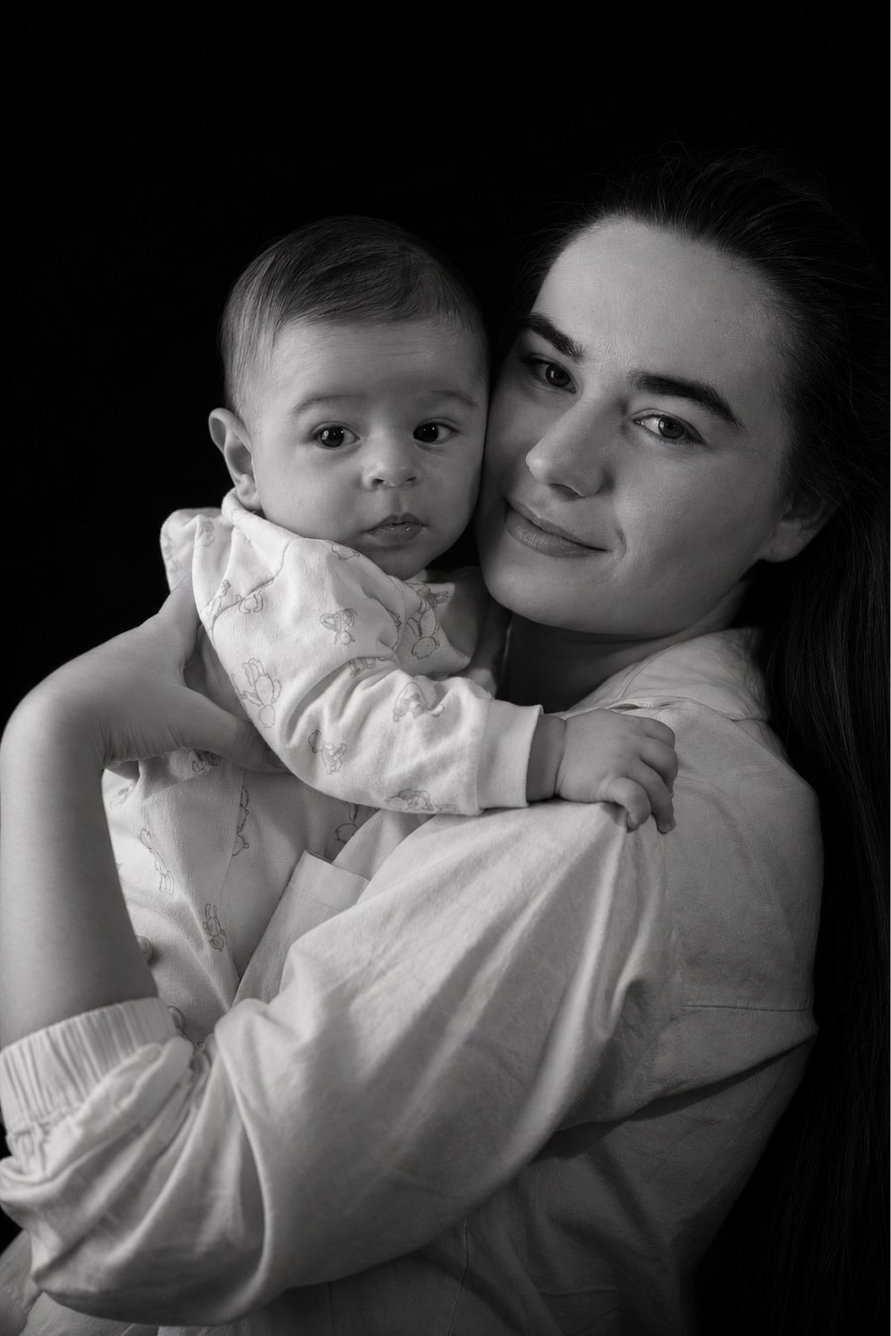
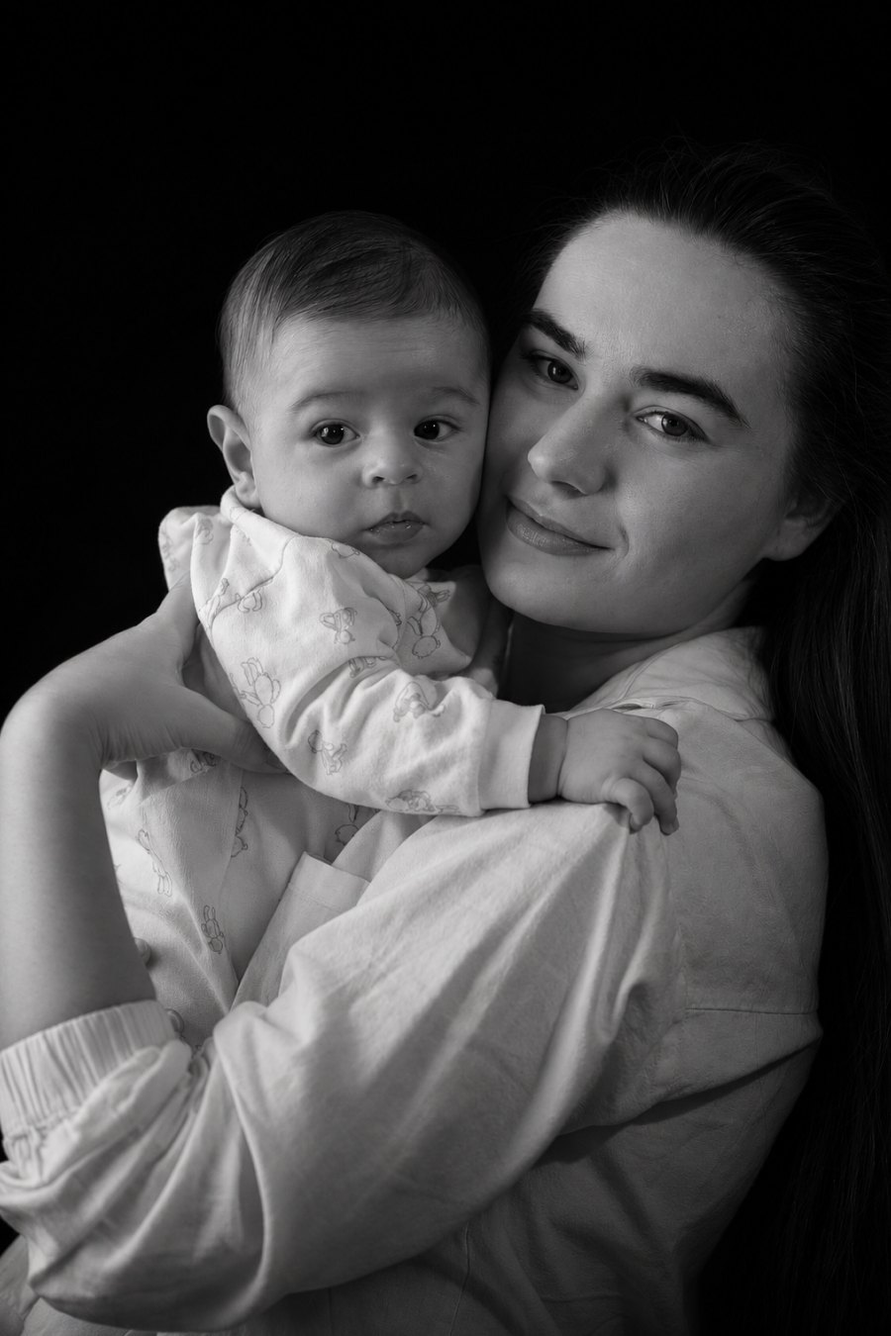
Семья: фото 10 заново из исправленного файла

diff --git a/site/kz/index.html b/site/kz/index.html
@@ -41,7 +41,7 @@ var t=document.querySelector('meta[name="theme-color"]');if(t)t.content=p[1]}();
 <link rel="preconnect" href="https://fonts.googleapis.com">
 <link rel="preconnect" href="https://fonts.gstatic.com" crossorigin>
 <link href="https://fonts.googleapis.com/css2?family=Inter:wght@400;500;600;700;800&family=Unbounded:wght@900&display=swap" rel="stylesheet">
-<link rel="stylesheet" href="../assets/style.css?v=1794721851">
+<link rel="stylesheet" href="../assets/style.css?v=1794721956">
 </head>
 <body id="top" class="is-home">
 <header class="top">
@@ -60,9 +60,9 @@ var t=document.querySelector('meta[name="theme-color"]');if(t)t.content=p[1]}();
 
 <div class="home" id="home">
 <section class="stage">
-  <div class="splash"><picture class="tile"><source media="(max-width: 760px)" srcset="../photos/home/02.jpg?v=1794721851"><img src="../photos/home/01.jpg?v=1794721851" alt="Veronika Kim"></picture></div>
-  <h1 class="wordmark"><picture><source media="(max-width: 760px)" data-srcset="../assets/wordmark-v1.png?v=1794721851" width="678" height="1692"><img data-src="../assets/wordmark-1.png?v=1794721851" alt="Veronika Kim" width="1692" height="678"></picture><script>!function(p){var n=document.documentElement.getAttribute("data-logo")||1,s=p.firstChild,i=p.lastChild;s.srcset=s.getAttribute("data-srcset").replace("-v1.","-v"+n+".");i.src=i.getAttribute("data-src").replace("-1.","-"+n+".")}(document.currentScript.previousElementSibling)</script><noscript><img src="../assets/wordmark-1.png?v=1794721851" alt="Veronika Kim" width="1692" height="678"></noscript></h1>
-  <div class="drift"><div class="drift-item"><a href="../kz/art/editorial/"><img src="../photos/drift/editorial.jpg?v=1794721851" width="315" height="560" alt="Авторлық портрет" decoding="async"></a></div><div class="drift-item"><a href="../kz/book/mountains/"><img src="../photos/drift/mountains.jpg?v=1794721851" width="560" height="373" alt="Таудағы дрон" decoding="async"></a></div><div class="drift-item"><a href="../kz/book/kids/"><img src="../photos/drift/kids.jpg?v=1794721851" width="400" height="560" alt="Балалар" decoding="async"></a></div><div class="drift-item"><a href="../kz/book/underwater/"><img src="../photos/drift/underwater.jpg?v=1794721851" width="448" height="560" alt="Су астында" decoding="async"></a></div><div class="drift-item"><a href="../kz/book/portrait/"><img src="../photos/drift/portrait.jpg?v=1794721851" width="420" height="560" alt="Портрет" decoding="async"></a></div><div class="drift-item"><a href="../kz/architecture/"><img src="../photos/drift/architecture.jpg?v=1794721851" width="560" height="405" alt="Сәулет және дрон" decoding="async"></a></div><div class="drift-item"><a href="../kz/book/love-story/"><img src="../photos/drift/love-story.jpg?v=1794721851" width="560" height="373" alt="Love story" decoding="async"></a></div><div class="drift-item"><a href="../kz/art/travel/"><img src="../photos/drift/travel.jpg?v=1794721851" width="560" height="373" alt="Саяхат" decoding="async"></a></div></div>
+  <div class="splash"><picture class="tile"><source media="(max-width: 760px)" srcset="../photos/home/02.jpg?v=1794721956"><img src="../photos/home/01.jpg?v=1794721956" alt="Veronika Kim"></picture></div>
+  <h1 class="wordmark"><picture><source media="(max-width: 760px)" data-srcset="../assets/wordmark-v1.png?v=1794721956" width="678" height="1692"><img data-src="../assets/wordmark-1.png?v=1794721956" alt="Veronika Kim" width="1692" height="678"></picture><script>!function(p){var n=document.documentElement.getAttribute("data-logo")||1,s=p.firstChild,i=p.lastChild;s.srcset=s.getAttribute("data-srcset").replace("-v1.","-v"+n+".");i.src=i.getAttribute("data-src").replace("-1.","-"+n+".")}(document.currentScript.previousElementSibling)</script><noscript><img src="../assets/wordmark-1.png?v=1794721956" alt="Veronika Kim" width="1692" height="678"></noscript></h1>
+  <div class="drift"><div class="drift-item"><a href="../kz/art/editorial/"><img src="../photos/drift/editorial.jpg?v=1794721956" width="315" height="560" alt="Авторлық портрет" decoding="async"></a></div><div class="drift-item"><a href="../kz/book/mountains/"><img src="../photos/drift/mountains.jpg?v=1794721956" width="560" height="373" alt="Таудағы дрон" decoding="async"></a></div><div class="drift-item"><a href="../kz/book/kids/"><img src="../photos/drift/kids.jpg?v=1794721956" width="400" height="560" alt="Балалар" decoding="async"></a></div><div class="drift-item"><a href="../kz/book/underwater/"><img src="../photos/drift/underwater.jpg?v=1794721956" width="448" height="560" alt="Су астында" decoding="async"></a></div><div class="drift-item"><a href="../kz/book/portrait/"><img src="../photos/drift/portrait.jpg?v=1794721956" width="420" height="560" alt="Портрет" decoding="async"></a></div><div class="drift-item"><a href="../kz/architecture/"><img src="../photos/drift/architecture.jpg?v=1794721956" width="560" height="405" alt="Сәулет және дрон" decoding="async"></a></div><div class="drift-item"><a href="../kz/book/love-story/"><img src="../photos/drift/love-story.jpg?v=1794721956" width="560" height="373" alt="Love story" decoding="async"></a></div><div class="drift-item"><a href="../kz/art/travel/"><img src="../photos/drift/travel.jpg?v=1794721956" width="560" height="373" alt="Саяхат" decoding="async"></a></div></div>
 </section>
 <div class="home-content">
 <p class="statement">Маған мінсіз адамдар керек емес. <em>Маған тірі адамдар қызық.</em></p>
@@ -89,6 +89,6 @@ var t=document.querySelector('meta[name="theme-color"]');if(t)t.content=p[1]}();
   <div class="foot-bottom"><span>© 2026 Veronika Kim. Барлық құқықтар қорғалған</span><a href="#top">Жоғарыға</a></div>
 </footer>
 <div class="lb" role="dialog" aria-modal="true"><span class="c"></span><button class="x">Жабу</button><button class="p">← Артқа</button><img alt=""><button class="nx">Алға →</button></div>
-<script src="../assets/app.js?v=1794721851"></script>
+<script src="../assets/app.js?v=1794721956"></script>
 </body>
 </html>

diff --git a/site/en/index.html b/site/en/index.html
@@ -41,7 +41,7 @@ var t=document.querySelector('meta[name="theme-color"]');if(t)t.content=p[1]}();
 <link rel="preconnect" href="https://fonts.googleapis.com">
 <link rel="preconnect" href="https://fonts.gstatic.com" crossorigin>
 <link href="https://fonts.googleapis.com/css2?family=Inter:wght@400;500;600;700;800&family=Unbounded:wght@900&display=swap" rel="stylesheet">
-<link rel="stylesheet" href="../assets/style.css?v=1794721851">
+<link rel="stylesheet" href="../assets/style.css?v=1794721956">
 </head>
 <body id="top" class="is-home">
 <header class="top">
@@ -60,9 +60,9 @@ var t=document.querySelector('meta[name="theme-color"]');if(t)t.content=p[1]}();
 
 <div class="home" id="home">
 <section class="stage">
-  <div class="splash"><picture class="tile"><source media="(max-width: 760px)" srcset="../photos/home/02.jpg?v=1794721851"><img src="../photos/home/01.jpg?v=1794721851" alt="Veronika Kim"></picture></div>
-  <h1 class="wordmark"><picture><source media="(max-width: 760px)" data-srcset="../assets/wordmark-v1.png?v=1794721851" width="678" height="1692"><img data-src="../assets/wordmark-1.png?v=1794721851" alt="Veronika Kim" width="1692" height="678"></picture><script>!function(p){var n=document.documentElement.getAttribute("data-logo")||1,s=p.firstChild,i=p.lastChild;s.srcset=s.getAttribute("data-srcset").replace("-v1.","-v"+n+".");i.src=i.getAttribute("data-src").replace("-1.","-"+n+".")}(document.currentScript.previousElementSibling)</script><noscript><img src="../assets/wordmark-1.png?v=1794721851" alt="Veronika Kim" width="1692" height="678"></noscript></h1>
-  <div class="drift"><div class="drift-item"><a href="../en/art/editorial/"><img src="../photos/drift/editorial.jpg?v=1794721851" width="315" height="560" alt="Art portrait" decoding="async"></a></div><div class="drift-item"><a href="../en/book/mountains/"><img src="../photos/drift/mountains.jpg?v=1794721851" width="560" height="373" alt="Mountains &amp; drone" decoding="async"></a></div><div class="drift-item"><a href="../en/book/kids/"><img src="../photos/drift/kids.jpg?v=1794721851" width="400" height="560" alt="Children" decoding="async"></a></div><div class="drift-item"><a href="../en/book/underwater/"><img src="../photos/drift/underwater.jpg?v=1794721851" width="448" height="560" alt="Underwater" decoding="async"></a></div><div class="drift-item"><a href="../en/book/portrait/"><img src="../photos/drift/portrait.jpg?v=1794721851" width="420" height="560" alt="Portrait" decoding="async"></a></div><div class="drift-item"><a href="../en/architecture/"><img src="../photos/drift/architecture.jpg?v=1794721851" width="560" height="405" alt="Architecture &amp; drone" decoding="async"></a></div><div class="drift-item"><a href="../en/book/love-story/"><img src="../photos/drift/love-story.jpg?v=1794721851" width="560" height="373" alt="Love story" decoding="async"></a></div><div class="drift-item"><a href="../en/art/travel/"><img src="../photos/drift/travel.jpg?v=1794721851" width="560" height="373" alt="Travel" decoding="async"></a></div></div>
+  <div class="splash"><picture class="tile"><source media="(max-width: 760px)" srcset="../photos/home/02.jpg?v=1794721956"><img src="../photos/home/01.jpg?v=1794721956" alt="Veronika Kim"></picture></div>
+  <h1 class="wordmark"><picture><source media="(max-width: 760px)" data-srcset="../assets/wordmark-v1.png?v=1794721956" width="678" height="1692"><img data-src="../assets/wordmark-1.png?v=1794721956" alt="Veronika Kim" width="1692" height="678"></picture><script>!function(p){var n=document.documentElement.getAttribute("data-logo")||1,s=p.firstChild,i=p.lastChild;s.srcset=s.getAttribute("data-srcset").replace("-v1.","-v"+n+".");i.src=i.getAttribute("data-src").replace("-1.","-"+n+".")}(document.currentScript.previousElementSibling)</script><noscript><img src="../assets/wordmark-1.png?v=1794721956" alt="Veronika Kim" width="1692" height="678"></noscript></h1>
+  <div class="drift"><div class="drift-item"><a href="../en/art/editorial/"><img src="../photos/drift/editorial.jpg?v=1794721956" width="315" height="560" alt="Art portrait" decoding="async"></a></div><div class="drift-item"><a href="../en/book/mountains/"><img src="../photos/drift/mountains.jpg?v=1794721956" width="560" height="373" alt="Mountains &amp; drone" decoding="async"></a></div><div class="drift-item"><a href="../en/book/kids/"><img src="../photos/drift/kids.jpg?v=1794721956" width="400" height="560" alt="Children" decoding="async"></a></div><div class="drift-item"><a href="../en/book/underwater/"><img src="../photos/drift/underwater.jpg?v=1794721956" width="448" height="560" alt="Underwater" decoding="async"></a></div><div class="drift-item"><a href="../en/book/portrait/"><img src="../photos/drift/portrait.jpg?v=1794721956" width="420" height="560" alt="Portrait" decoding="async"></a></div><div class="drift-item"><a href="../en/architecture/"><img src="../photos/drift/architecture.jpg?v=1794721956" width="560" height="405" alt="Architecture &amp; drone" decoding="async"></a></div><div class="drift-item"><a href="../en/book/love-story/"><img src="../photos/drift/love-story.jpg?v=1794721956" width="560" height="373" alt="Love story" decoding="async"></a></div><div class="drift-item"><a href="../en/art/travel/"><img src="../photos/drift/travel.jpg?v=1794721956" width="560" height="373" alt="Travel" decoding="async"></a></div></div>
 </section>
 <div class="home-content">
 <p class="statement">I don't need perfect people. <em>I'm interested in real ones.</em></p>
@@ -89,6 +89,6 @@ var t=document.querySelector('meta[name="theme-color"]');if(t)t.content=p[1]}();
   <div class="foot-bottom"><span>© 2026 Veronika Kim. All rights reserved</span><a href="#top">Back to top</a></div>
 </footer>
 <div class="lb" role="dialog" aria-modal="true"><span class="c"></span><button class="x">Close</button><button class="p">← Prev</button><img alt=""><button class="nx">Next →</button></div>
-<script src="../assets/app.js?v=1794721851"></script>
+<script src="../assets/app.js?v=1794721956"></script>
 </body>
 </html>

diff --git a/site/index.html b/site/index.html
@@ -41,7 +41,7 @@ var t=document.querySelector('meta[name="theme-color"]');if(t)t.content=p[1]}();
 <link rel="preconnect" href="https://fonts.googleapis.com">
 <link rel="preconnect" href="https://fonts.gstatic.com" crossorigin>
 <link href="https://fonts.googleapis.com/css2?family=Inter:wght@400;500;600;700;800&family=Unbounded:wght@900&display=swap" rel="stylesheet">
-<link rel="stylesheet" href="assets/style.css?v=1794721851">
+<link rel="stylesheet" href="assets/style.css?v=1794721956">
 </head>
 <body id="top" class="is-home">
 <header class="top">
@@ -60,9 +60,9 @@ var t=document.querySelector('meta[name="theme-color"]');if(t)t.content=p[1]}();
 
 <div class="home" id="home">
 <section class="stage">
-  <div class="splash"><picture class="tile"><source media="(max-width: 760px)" srcset="photos/home/02.jpg?v=1794721851"><img src="photos/home/01.jpg?v=1794721851" alt="Veronika Kim"></picture></div>
-  <h1 class="wordmark"><picture><source media="(max-width: 760px)" data-srcset="assets/wordmark-v1.png?v=1794721851" width="678" height="1692"><img data-src="assets/wordmark-1.png?v=1794721851" alt="Veronika Kim" width="1692" height="678"></picture><script>!function(p){var n=document.documentElement.getAttribute("data-logo")||1,s=p.firstChild,i=p.lastChild;s.srcset=s.getAttribute("data-srcset").replace("-v1.","-v"+n+".");i.src=i.getAttribute("data-src").replace("-1.","-"+n+".")}(document.currentScript.previousElementSibling)</script><noscript><img src="assets/wordmark-1.png?v=1794721851" alt="Veronika Kim" width="1692" height="678"></noscript></h1>
-  <div class="drift"><div class="drift-item"><a href="art/editorial/"><img src="photos/drift/editorial.jpg?v=1794721851" width="315" height="560" alt="Авторский портрет" decoding="async"></a></div><div class="drift-item"><a href="book/mountains/"><img src="photos/drift/mountains.jpg?v=1794721851" width="560" height="373" alt="Горы с дроном" decoding="async"></a></div><div class="drift-item"><a href="book/kids/"><img src="photos/drift/kids.jpg?v=1794721851" width="400" height="560" alt="Дети" decoding="async"></a></div><div class="drift-item"><a href="book/underwater/"><img src="photos/drift/underwater.jpg?v=1794721851" width="448" height="560" alt="Под водой" decoding="async"></a></div><div class="drift-item"><a href="book/portrait/"><img src="photos/drift/portrait.jpg?v=1794721851" width="420" height="560" alt="Портрет" decoding="async"></a></div><div class="drift-item"><a href="architecture/"><img src="photos/drift/architecture.jpg?v=1794721851" width="560" height="405" alt="Архитектура и дрон" decoding="async"></a></div><div class="drift-item"><a href="book/love-story/"><img src="photos/drift/love-story.jpg?v=1794721851" width="560" height="373" alt="Love story" decoding="async"></a></div><div class="drift-item"><a href="art/travel/"><img src="photos/drift/travel.jpg?v=1794721851" width="560" height="373" alt="Travel" decoding="async"></a></div></div>
+  <div class="splash"><picture class="tile"><source media="(max-width: 760px)" srcset="photos/home/02.jpg?v=1794721956"><img src="photos/home/01.jpg?v=1794721956" alt="Veronika Kim"></picture></div>
+  <h1 class="wordmark"><picture><source media="(max-width: 760px)" data-srcset="assets/wordmark-v1.png?v=1794721956" width="678" height="1692"><img data-src="assets/wordmark-1.png?v=1794721956" alt="Veronika Kim" width="1692" height="678"></picture><script>!function(p){var n=document.documentElement.getAttribute("data-logo")||1,s=p.firstChild,i=p.lastChild;s.srcset=s.getAttribute("data-srcset").replace("-v1.","-v"+n+".");i.src=i.getAttribute("data-src").replace("-1.","-"+n+".")}(document.currentScript.previousElementSibling)</script><noscript><img src="assets/wordmark-1.png?v=1794721956" alt="Veronika Kim" width="1692" height="678"></noscript></h1>
+  <div class="drift"><div class="drift-item"><a href="art/editorial/"><img src="photos/drift/editorial.jpg?v=1794721956" width="315" height="560" alt="Авторский портрет" decoding="async"></a></div><div class="drift-item"><a href="book/mountains/"><img src="photos/drift/mountains.jpg?v=1794721956" width="560" height="373" alt="Горы с дроном" decoding="async"></a></div><div class="drift-item"><a href="book/kids/"><img src="photos/drift/kids.jpg?v=1794721956" width="400" height="560" alt="Дети" decoding="async"></a></div><div class="drift-item"><a href="book/underwater/"><img src="photos/drift/underwater.jpg?v=1794721956" width="448" height="560" alt="Под водой" decoding="async"></a></div><div class="drift-item"><a href="book/portrait/"><img src="photos/drift/portrait.jpg?v=1794721956" width="420" height="560" alt="Портрет" decoding="async"></a></div><div class="drift-item"><a href="architecture/"><img src="photos/drift/architecture.jpg?v=1794721956" width="560" height="405" alt="Архитектура и дрон" decoding="async"></a></div><div class="drift-item"><a href="book/love-story/"><img src="photos/drift/love-story.jpg?v=1794721956" width="560" height="373" alt="Love story" decoding="async"></a></div><div class="drift-item"><a href="art/travel/"><img src="photos/drift/travel.jpg?v=1794721956" width="560" height="373" alt="Travel" decoding="async"></a></div></div>
 </section>
 <div class="home-content">
 <p class="statement">Мне не нужны идеальные люди. <em>Мне интересны живые.</em></p>
@@ -89,6 +89,6 @@ var t=document.querySelector('meta[name="theme-color"]');if(t)t.content=p[1]}();
   <div class="foot-bottom"><span>© 2026 Veronika Kim. Все права защищены</span><a href="#top">Наверх</a></div>
 </footer>
 <div class="lb" role="dialog" aria-modal="true"><span class="c"></span><button class="x">Закрыть</button><button class="p">← Назад</button><img alt=""><button class="nx">Вперёд →</button></div>
-<script src="assets/app.js?v=1794721851"></script>
+<script src="assets/app.js?v=1794721956"></script>
 </body>
 </html>

diff --git a/site/kz/art/editorial/index.html b/site/kz/art/editorial/index.html
@@ -41,7 +41,7 @@ var t=document.querySelector('meta[name="theme-color"]');if(t)t.content=p[1]}();
 <link rel="preconnect" href="https://fonts.googleapis.com">
 <link rel="preconnect" href="https://fonts.gstatic.com" crossorigin>
 <link href="https://fonts.googleapis.com/css2?family=Inter:wght@400;500;600;700;800&family=Unbounded:wght@900&display=swap" rel="stylesheet">
-<link rel="stylesheet" href="../../../assets/style.css?v=1794721851">
+<link rel="stylesheet" href="../../../assets/style.css?v=1794721956">
 </head>
 <body id="top">
 <header class="top">
@@ -69,6 +69,6 @@ var t=document.querySelector('meta[name="theme-color"]');if(t)t.content=p[1]}();
   <div class="foot-bottom"><span>© 2026 Veronika Kim. Барлық құқықтар қорғалған</span><a href="#top">Жоғарыға</a></div>
 </footer>
 <div class="lb" role="dialog" aria-modal="true"><span class="c"></span><button class="x">Жабу</button><button class="p">← Артқа</button><img alt=""><button class="nx">Алға →</button></div>
-<script src="../../../assets/app.js?v=1794721851"></script>
+<script src="../../../assets/app.js?v=1794721956"></script>
 </body>
 </html>

diff --git a/site/kz/art/film-darkroom/index.html b/site/kz/art/film-darkroom/index.html
@@ -41,7 +41,7 @@ var t=document.querySelector('meta[name="theme-color"]');if(t)t.content=p[1]}();
 <link rel="preconnect" href="https://fonts.googleapis.com">
 <link rel="preconnect" href="https://fonts.gstatic.com" crossorigin>
 <link href="https://fonts.googleapis.com/css2?family=Inter:wght@400;500;600;700;800&family=Unbounded:wght@900&display=swap" rel="stylesheet">
-<link rel="stylesheet" href="../../../assets/style.css?v=1794721851">
+<link rel="stylesheet" href="../../../assets/style.css?v=1794721956">
 </head>
 <body id="top">
 <header class="top">
@@ -69,6 +69,6 @@ var t=document.querySelector('meta[name="theme-color"]');if(t)t.content=p[1]}();
   <div class="foot-bottom"><span>© 2026 Veronika Kim. Барлық құқықтар қорғалған</span><a href="#top">Жоғарыға</a></div>
 </footer>
 <div class="lb" role="dialog" aria-modal="true"><span class="c"></span><button class="x">Жабу</button><button class="p">← Артқа</button><img alt=""><button class="nx">Алға →</button></div>
-<script src="../../../assets/app.js?v=1794721851"></script>
+<script src="../../../assets/app.js?v=1794721956"></script>
 </body>
 </html>

diff --git a/site/kz/art/thirst-for-life/index.html b/site/kz/art/thirst-for-life/index.html
@@ -41,7 +41,7 @@ var t=document.querySelector('meta[name="theme-color"]');if(t)t.content=p[1]}();
 <link rel="preconnect" href="https://fonts.googleapis.com">
 <link rel="preconnect" href="https://fonts.gstatic.com" crossorigin>
 <link href="https://fonts.googleapis.com/css2?family=Inter:wght@400;500;600;700;800&family=Unbounded:wght@900&display=swap" rel="stylesheet">
-<link rel="stylesheet" href="../../../assets/style.css?v=1794721851">
+<link rel="stylesheet" href="../../../assets/style.css?v=1794721956">
 </head>
 <body id="top">
 <header class="top">
@@ -69,6 +69,6 @@ var t=document.querySelector('meta[name="theme-color"]');if(t)t.content=p[1]}();
   <div class="foot-bottom"><span>© 2026 Veronika Kim. Барлық құқықтар қорғалған</span><a href="#top">Жоғарыға</a></div>
 </footer>
 <div class="lb" role="dialog" aria-modal="true"><span class="c"></span><button class="x">Жабу</button><button class="p">← Артқа</button><img alt=""><button class="nx">Алға →</button></div>
-<script src="../../../assets/app.js?v=1794721851"></script>
+<script src="../../../assets/app.js?v=1794721956"></script>
 </body>
 </html>

diff --git a/site/kz/art/travel/index.html b/site/kz/art/travel/index.html
@@ -41,7 +41,7 @@ var t=document.querySelector('meta[name="theme-color"]');if(t)t.content=p[1]}();
 <link rel="preconnect" href="https://fonts.googleapis.com">
 <link rel="preconnect" href="https://fonts.gstatic.com" crossorigin>
 <link href="https://fonts.googleapis.com/css2?family=Inter:wght@400;500;600;700;800&family=Unbounded:wght@900&display=swap" rel="stylesheet">
-<link rel="stylesheet" href="../../../assets/style.css?v=1794721851">
+<link rel="stylesheet" href="../../../assets/style.css?v=1794721956">
 </head>
 <body id="top">
 <header class="top">
@@ -69,6 +69,6 @@ var t=document.querySelector('meta[name="theme-color"]');if(t)t.content=p[1]}();
   <div class="foot-bottom"><span>© 2026 Veronika Kim. Барлық құқықтар қорғалған</span><a href="#top">Жоғарыға</a></div>
 </footer>
 <div class="lb" role="dialog" aria-modal="true"><span class="c"></span><button class="x">Жабу</button><button class="p">← Артқа</button><img alt=""><button class="nx">Алға →</button></div>
-<script src="../../../assets/app.js?v=1794721851"></script>
+<script src="../../../assets/app.js?v=1794721956"></script>
 </body>
 </html>

diff --git a/site/kz/book/family/index.html b/site/kz/book/family/index.html
@@ -41,7 +41,7 @@ var t=document.querySelector('meta[name="theme-color"]');if(t)t.content=p[1]}();
 <link rel="preconnect" href="https://fonts.googleapis.com">
 <link rel="preconnect" href="https://fonts.gstatic.com" crossorigin>
 <link href="https://fonts.googleapis.com/css2?family=Inter:wght@400;500;600;700;800&family=Unbounded:wght@900&display=swap" rel="stylesheet">
-<link rel="stylesheet" href="../../../assets/style.css?v=1794721851">
+<link rel="stylesheet" href="../../../assets/style.css?v=1794721956">
 </head>
 <body id="top">
 <header class="top">
@@ -69,6 +69,6 @@ var t=document.querySelector('meta[name="theme-color"]');if(t)t.content=p[1]}();
   <div class="foot-bottom"><span>© 2026 Veronika Kim. Барлық құқықтар қорғалған</span><a href="#top">Жоғарыға</a></div>
 </footer>
 <div class="lb" role="dialog" aria-modal="true"><span class="c"></span><button class="x">Жабу</button><button class="p">← Артқа</button><img alt=""><button class="nx">Алға →</button></div>
-<script src="../../../assets/app.js?v=1794721851"></script>
+<script src="../../../assets/app.js?v=1794721956"></script>
 </body>
 </html>

diff --git a/site/kz/book/kids/index.html b/site/kz/book/kids/index.html
@@ -41,7 +41,7 @@ var t=document.querySelector('meta[name="theme-color"]');if(t)t.content=p[1]}();
 <link rel="preconnect" href="https://fonts.googleapis.com">
 <link rel="preconnect" href="https://fonts.gstatic.com" crossorigin>
 <link href="https://fonts.googleapis.com/css2?family=Inter:wght@400;500;600;700;800&family=Unbounded:wght@900&display=swap" rel="stylesheet">
-<link rel="stylesheet" href="../../../assets/style.css?v=1794721851">
+<link rel="stylesheet" href="../../../assets/style.css?v=1794721956">
 </head>
 <body id="top">
 <header class="top">
@@ -69,6 +69,6 @@ var t=document.querySelector('meta[name="theme-color"]');if(t)t.content=p[1]}();
   <div class="foot-bottom"><span>© 2026 Veronika Kim. Барлық құқықтар қорғалған</span><a href="#top">Жоғарыға</a></div>
 </footer>
 <div class="lb" role="dialog" aria-modal="true"><span class="c"></span><button class="x">Жабу</button><button class="p">← Артқа</button><img alt=""><button class="nx">Алға →</button></div>
-<script src="../../../assets/app.js?v=1794721851"></script>
+<script src="../../../assets/app.js?v=1794721956"></script>
 </body>
 </html>

diff --git a/site/kz/book/love-story/index.html b/site/kz/book/love-story/index.html
@@ -41,7 +41,7 @@ var t=document.querySelector('meta[name="theme-color"]');if(t)t.content=p[1]}();
 <link rel="preconnect" href="https://fonts.googleapis.com">
 <link rel="preconnect" href="https://fonts.gstatic.com" crossorigin>
 <link href="https://fonts.googleapis.com/css2?family=Inter:wght@400;500;600;700;800&family=Unbounded:wght@900&display=swap" rel="stylesheet">
-<link rel="stylesheet" href="../../../assets/style.css?v=1794721851">
+<link rel="stylesheet" href="../../../assets/style.css?v=1794721956">
 </head>
 <body id="top">
 <header class="top">
@@ -69,6 +69,6 @@ var t=document.querySelector('meta[name="theme-color"]');if(t)t.content=p[1]}();
   <div class="foot-bottom"><span>© 2026 Veronika Kim. Барлық құқықтар қорғалған</span><a href="#top">Жоғарыға</a></div>
 </footer>
 <div class="lb" role="dialog" aria-modal="true"><span class="c"></span><button class="x">Жабу</button><button class="p">← Артқа</button><img alt=""><button class="nx">Алға →</button></div>
-<script src="../../../assets/app.js?v=1794721851"></script>
+<script src="../../../assets/app.js?v=1794721956"></script>
 </body>
 </html>

diff --git a/site/kz/book/mountains/index.html b/site/kz/book/mountains/index.html
@@ -41,7 +41,7 @@ var t=document.querySelector('meta[name="theme-color"]');if(t)t.content=p[1]}();
 <link rel="preconnect" href="https://fonts.googleapis.com">
 <link rel="preconnect" href="https://fonts.gstatic.com" crossorigin>
 <link href="https://fonts.googleapis.com/css2?family=Inter:wght@400;500;600;700;800&family=Unbounded:wght@900&display=swap" rel="stylesheet">
-<link rel="stylesheet" href="../../../assets/style.css?v=1794721851">
+<link rel="stylesheet" href="../../../assets/style.css?v=1794721956">
 </head>
 <body id="top">
 <header class="top">
@@ -69,6 +69,6 @@ var t=document.querySelector('meta[name="theme-color"]');if(t)t.content=p[1]}();
   <div class="foot-bottom"><span>© 2026 Veronika Kim. Барлық құқықтар қорғалған</span><a href="#top">Жоғарыға</a></div>
 </footer>
 <div class="lb" role="dialog" aria-modal="true"><span class="c"></span><button class="x">Жабу</button><button class="p">← Артқа</button><img alt=""><button class="nx">Алға →</button></div>
-<script src="../../../assets/app.js?v=1794721851"></script>
+<script src="../../../assets/app.js?v=1794721956"></script>
 </body>
 </html>

diff --git a/site/kz/book/portrait/index.html b/site/kz/book/portrait/index.html
@@ -41,7 +41,7 @@ var t=document.querySelector('meta[name="theme-color"]');if(t)t.content=p[1]}();
 <link rel="preconnect" href="https://fonts.googleapis.com">
 <link rel="preconnect" href="https://fonts.gstatic.com" crossorigin>
 <link href="https://fonts.googleapis.com/css2?family=Inter:wght@400;500;600;700;800&family=Unbounded:wght@900&display=swap" rel="stylesheet">
-<link rel="stylesheet" href="../../../assets/style.css?v=1794721851">
+<link rel="stylesheet" href="../../../assets/style.css?v=1794721956">
 </head>
 <body id="top">
 <header class="top">
@@ -69,6 +69,6 @@ var t=document.querySelector('meta[name="theme-color"]');if(t)t.content=p[1]}();
   <div class="foot-bottom"><span>© 2026 Veronika Kim. Барлық құқықтар қорғалған</span><a href="#top">Жоғарыға</a></div>
 </footer>
 <div class="lb" role="dialog" aria-modal="true"><span class="c"></span><button class="x">Жабу</button><button class="p">← Артқа</button><img alt=""><button class="nx">Алға →</button></div>
-<script src="../../../assets/app.js?v=1794721851"></script>
+<script src="../../../assets/app.js?v=1794721956"></script>
 </body>
 </html>
